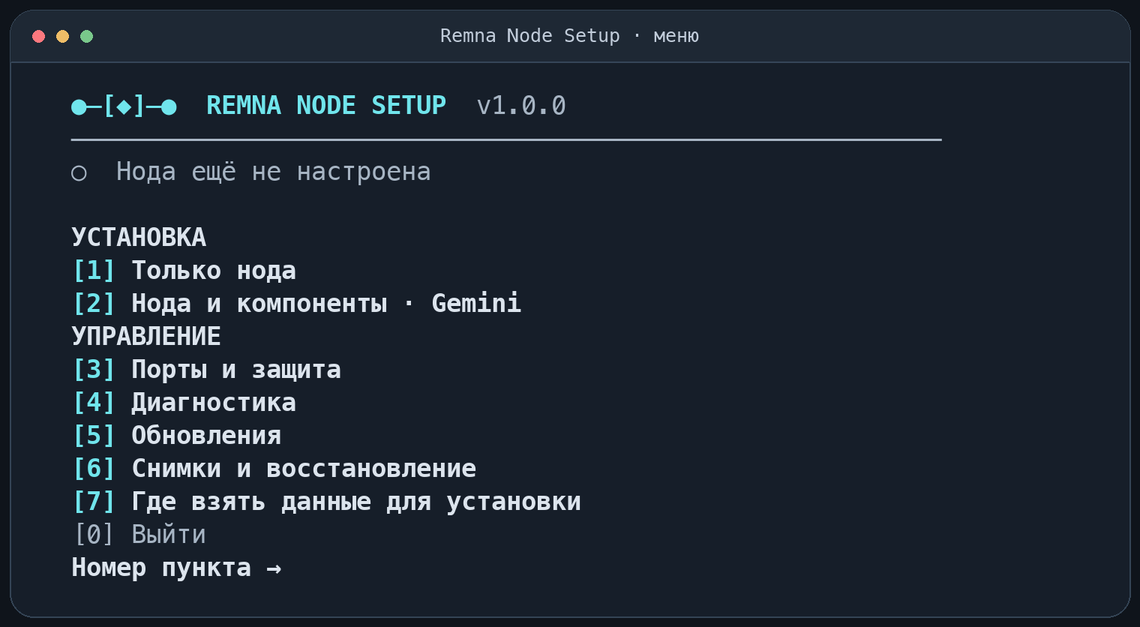
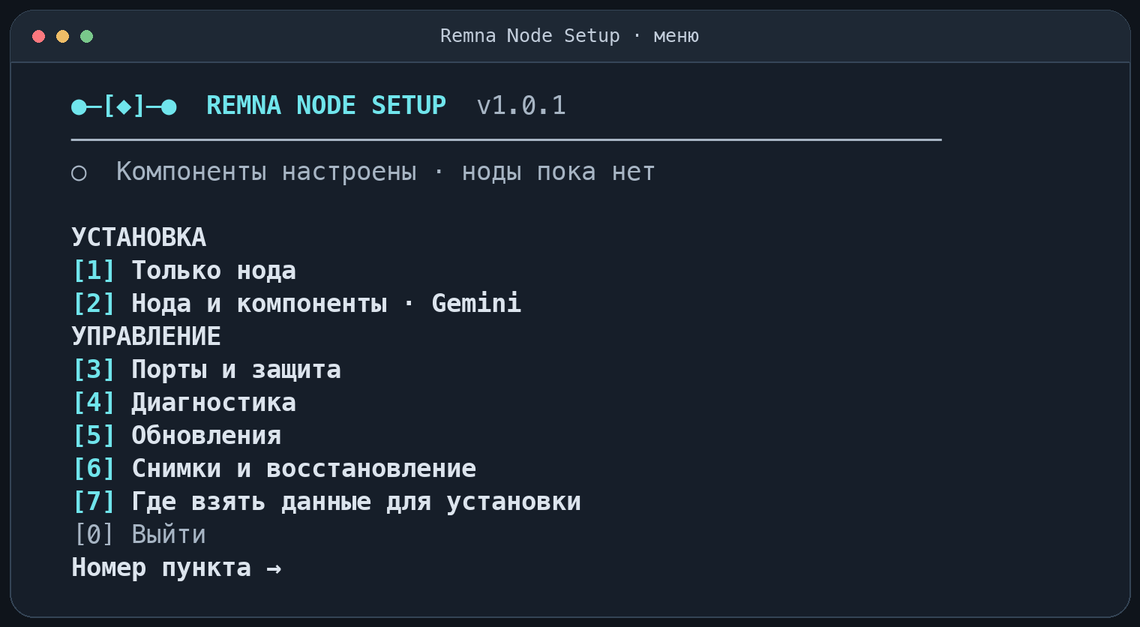
Initialize the real SSH test on hosted runners

Changed region(s): [[0.1228, 0.2424, 0.5833, 0.303], [0.4605, 0.1515, 0.5219, 0.1818]]

diff --git a/docs/Журнал разработки.md b/docs/Журнал разработки.md
@@ -55,13 +55,13 @@
 
 - Команда из README скачивает установщик, выбирает последний стабильный релиз и открывает меню. Пункты меню помещаются в одну строку. Добавлен символьный знак. Подтверждения принимают английские `y/n`.
 - При установке и обновлении ноды выбирается текущий стабильный образ Remnawave. Compose и снимки сохраняют точный digest.
-- Исправлены приоритетные результаты предыдущего аудита по откату и SSH. Диагностика проверяет DNS, таймер Certbot и ожидаемые компоненты. Дополнен [[Аудит 0.5.0]].
+- Исправлены приоритетные результаты предыдущего аудита по откату и SSH. Диагностика проверяет DNS, таймер Certbot и ожидаемые компоненты. Дополнен [аудит 0.5.0](Аудит%200.5.0.md).
 - Публичный архив v0.5.0 совпал с тегом по файлам и прошёл проверку SHA-256. Короткая команда обновила v0.4.0, открыла меню и сохранила конфиг и работающий контейнер ноды на тестовой Ubuntu 24.04. [Релиз](https://github.com/AiGenik/remna-node-setup/releases/tag/v0.5.0) · [Сборка](https://github.com/AiGenik/remna-node-setup/actions/runs/44874036479)
 
 ## Обновить всё, автообновления и Psiphon 0.6.0
 
 - Добавлен запуск обновлений установленных компонентов одной командой и ежедневный таймер после включения. План APT учитывает зависимости. Для сетевых пакетов ручной запуск сохраняет одно подтверждение SSH.
-- В мастер добавлен управляемый Psiphon. SOCKS5 доступен на loopback. Шаблон Gemini формирует правила Xray для IP одной ноды. Порядок установки и объединения правил описан в [[Psiphon]].
+- В мастер добавлен управляемый Psiphon. SOCKS5 доступен на loopback. Шаблон Gemini формирует правила Xray для IP одной ноды. Порядок установки и объединения правил описан в [инструкции по Psiphon](Psiphon.md).
 - На Ubuntu 24.04 проверены ручное обновление, таймер systemd, фоновое восстановление базы TrafficGuard с сохранением правил IPv4 и IPv6, смена порта Psiphon, запрос через SOCKS5 и откат настройки при ошибке. Регрессии проверяют группировку сетевых операций и форму правил Gemini.
 - Публичное обновление с 0.5.0 до 0.6.0 прошло проверку SHA-256. На тестовом VPS сохранились настройки сервера, UFW и ipset. [Релиз 0.6.0](https://github.com/AiGenik/remna-node-setup/releases/tag/v0.6.0) · [Сборка](https://github.com/AiGenik/remna-node-setup/actions/runs/44877145962)
 
@@ -79,8 +79,9 @@
 - В общую установку и диагностику добавлена проверка портов. Временный TCP-тест проверяет передачу данных в обе стороны с сервера панели и отличает открытый сокет от неполного обмена.
 - Между двумя Ubuntu 24.04 прошёл двусторонний обмен на 3003, 443 и 9443. После проверки тестовые сокеты освободили порты.
 
-## Стабильный выпуск 1.0.0
+## Стабильный выпуск 1.0.1
 
 - Добавлен `remna-ssh`. После сетевых изменений он проверяет новое SSH-соединение, подтверждает свой снимок и возвращает меню в том же терминале.
 - Исправлен порядок восстановления контейнера при сетевом откате. Проверка сборки теперь сверяет оба файла релиза и запускает самопроверку из распакованного архива.
 - Оформлены README, документация для GitHub и Obsidian, лицензия MIT и приватный канал сообщений об уязвимостях.
+- В тег 1.0.1 вошла подготовка `/run/sshd` для проверки на GitHub Actions. Выпуск 1.0.0 остановлен на этом тесте до публикации архива.
